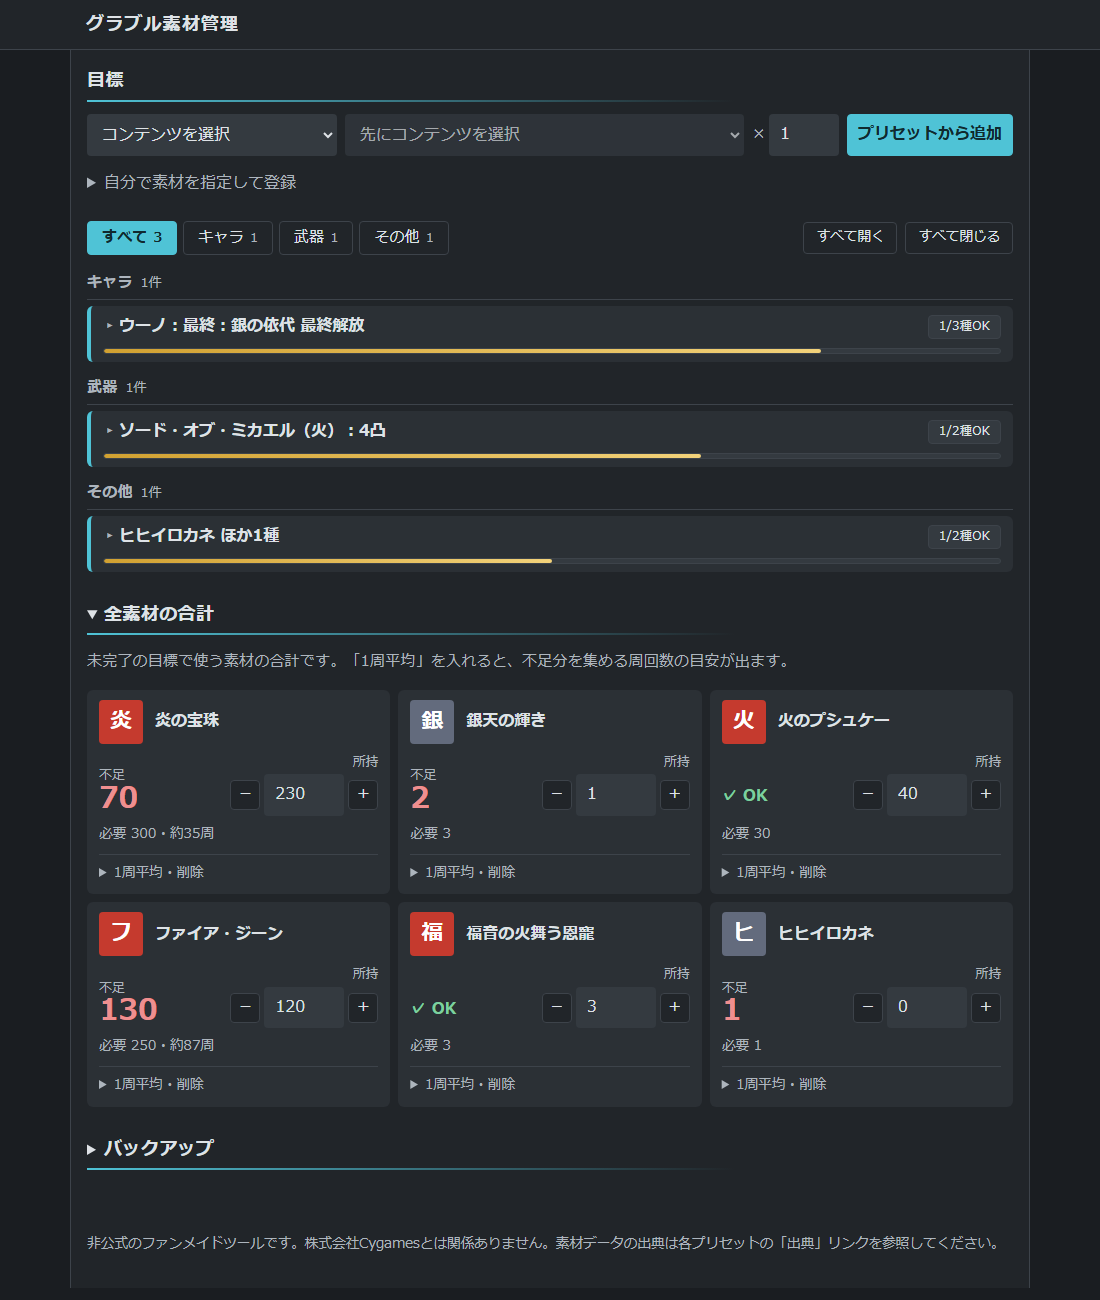
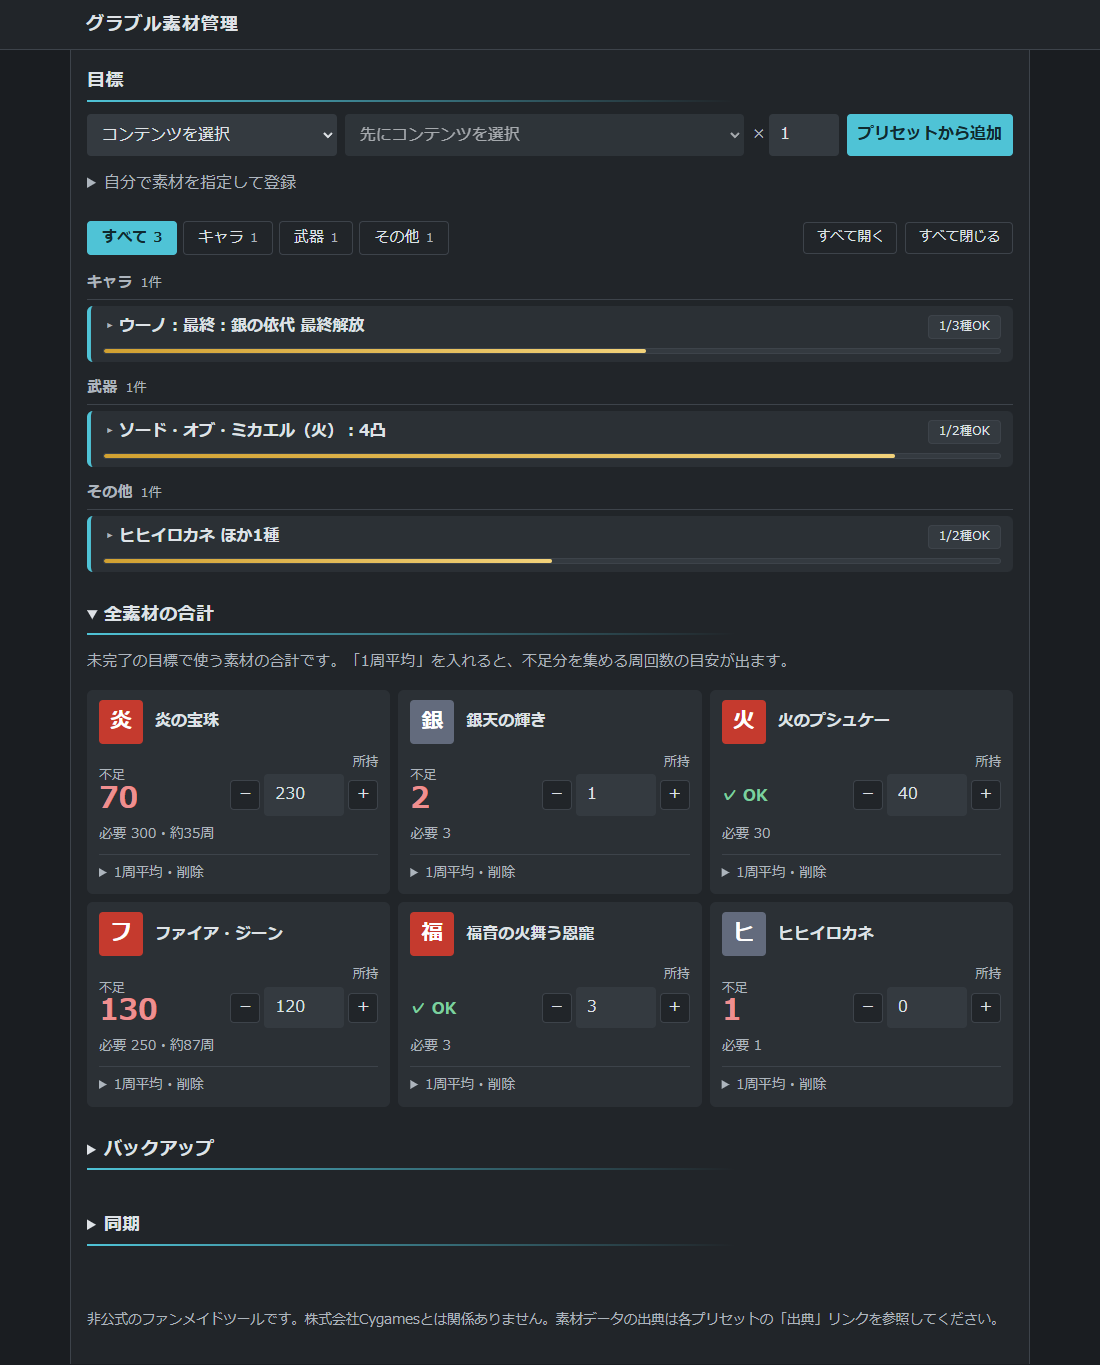
同期サーバーのデータを消すボタンと、180日送られていないデータを毎日消す処理を足し、README の画像を撮り直す

diff --git a/src/sync.ts b/src/sync.ts
@@ -21,6 +21,7 @@ const newBtn = byId('sync-new', HTMLButtonElement);
 const copyBtn = byId('sync-copy', HTMLButtonElement);
 const pushBtn = byId('sync-push', HTMLButtonElement);
 const pullBtn = byId('sync-pull', HTMLButtonElement);
+const deleteBtn = byId('sync-delete', HTMLButtonElement);
 const status = byId('sync-status', HTMLParagraphElement);
 
 // 推測されない同期コードを作る。でたらめな 32 バイトを、URL に使える文字（英数字と - _）の 43 文字にする
@@ -55,12 +56,12 @@ function currentCode(): string | null {
 
 // 通信している間はボタンを押せなくする（二重に送らないため）
 function setBusy(busy: boolean): void {
-  for (const btn of [newBtn, copyBtn, pushBtn, pullBtn]) btn.disabled = busy;
+  for (const btn of [newBtn, copyBtn, pushBtn, pullBtn, deleteBtn]) btn.disabled = busy;
 }
 
 // サーバーにリクエストを送り、返事の番号（ステータスコード）と中身の JSON を返す
 // サーバーにつながらないときは fetch がエラーを投げる
-async function request(method: 'GET' | 'PUT', code: string, body?: unknown): Promise<{ status: number; json: unknown }> {
+async function request(method: 'GET' | 'PUT' | 'DELETE', code: string, body?: unknown): Promise<{ status: number; json: unknown }> {
   const res = await fetch(`${SERVER}/api/sync/${code}`, {
     method,
     headers: body === undefined ? {} : { 'Content-Type': 'application/json' },
@@ -140,7 +141,7 @@ async function pull(): Promise<void> {
   try {
     const res = await request('GET', code);
     if (res.status === 404) {
-      status.textContent = 'この同期コードのデータは、まだサーバーにありません。先にほかの端末から送ってください';
+      status.textContent = 'この同期コードのデータは、サーバーにありません。先にほかの端末から送ってください（180日間送られなかったデータは消えます）';
       return;
     }
     // 返事の中身は { data, updatedAt } の形のはず。違っていたら読み込まない
@@ -158,6 +159,29 @@ async function pull(): Promise<void> {
     app.state = withLocalIcons(AppStorage.normalize(saved.data), app.state);
     app.save();
     location.reload();
+  } catch {
+    status.textContent = NETWORK_ERROR;
+  } finally {
+    setBusy(false);
+  }
+}
+
+// サーバーにあるこの同期コードのデータを消す。この端末のデータと同期コードは残す（もう一度送れば、また同期できる）
+async function remove(): Promise<void> {
+  const code = currentCode();
+  if (!code) return;
+  if (!confirm('サーバーにあるこの同期コードのデータを消しますか？\nこの端末のデータは消えません。ほかの端末からは取ってこられなくなります。')) return;
+  setBusy(true);
+  status.textContent = '消しています…';
+  try {
+    const res = await request('DELETE', code);
+    if (res.status === 200) {
+      status.textContent = 'サーバーのデータを消しました。この端末のデータは残っています';
+    } else if (res.status === 404) {
+      status.textContent = 'この同期コードのデータは、サーバーにありません（消してあるか、180日間送られなかったため消えています）';
+    } else {
+      status.textContent = `消せませんでした（エラー ${res.status}）`;
+    }
   } catch {
     status.textContent = NETWORK_ERROR;
   } finally {
@@ -197,3 +221,4 @@ codeInput.addEventListener('change', () => {
 
 pushBtn.addEventListener('click', push);
 pullBtn.addEventListener('click', pull);
+deleteBtn.addEventListener('click', remove);

diff --git a/server/server.ts b/server/server.ts
@@ -14,6 +14,10 @@ const MAX_BODY = 128 * 1024;
 // 最大で 1,000 × 128KB ＝ 約 128MB（D1 の無料枠は 1 つのデータベースにつき 500MB）
 const MAX_CODES = 1000;
 
+// この日数のあいだ送られてこなかった同期コードは、毎日の掃除（下の scheduled）で消す
+// 使わなくなったデータをサーバーに残さないため。消えると、MAX_CODES の枠も空く
+const KEEP_DAYS = 180;
+
 // このサーバーを呼んでよいページの場所（オリジン = プロトコル + ホスト名 + ポート番号）
 // ブラウザは、別のオリジンのサーバーへの通信を、サーバーが許可したときだけ通す（CORS）
 // 公開ページ（GitHub Pages）と、画面の開発用サーバー（npm run dev）。オリジンにはパス（/gbf-tracker/）は含まない
@@ -42,12 +46,12 @@ app.use(async (c, next) => {
 });
 
 // /api/ で始まるリクエストに、CORS の許可の返事を付ける
-// PUT や JSON を送るときは、ブラウザが先に OPTIONS で「送ってよいか」を聞いてくる（プリフライト）。それにもここで答える
+// PUT・DELETE や JSON を送るときは、ブラウザが先に OPTIONS で「送ってよいか」を聞いてくる（プリフライト）。それにもここで答える
 app.use(
   '/api/*',
   cors({
     origin: ALLOWED_ORIGINS,
-    allowMethods: ['GET', 'PUT'],
+    allowMethods: ['GET', 'PUT', 'DELETE'],
     allowHeaders: ['Content-Type'],
   }),
 );
@@ -117,6 +121,14 @@ app.put(
   },
 );
 
+// 保存してあるデータを消す（使う人が、自分のデータをサーバーに残したくないとき）
+app.delete('/api/sync/:code', async (c) => {
+  const result = await c.env.DB.prepare('DELETE FROM sync WHERE code = ?').bind(c.req.param('code')).run();
+  // meta.changes は、消した行の数。0 なら、その同期コードのデータはもともとなかった
+  if (result.meta.changes === 0) return c.json({ error: 'not found' }, 404);
+  return c.json({ deleted: true });
+});
+
 // メニューにないリクエストには 404 を返す
 app.notFound((c) => c.json({ error: 'not found' }, 404));
 
@@ -126,5 +138,16 @@ app.onError((err, c) => {
   return c.json({ error: 'server error' }, 500);
 });
 
-// Workers は、ここで渡した app にリクエストを届けてくれる。待つ番号（ポート）は Cloudflare が決める
-export default app;
+// Workers は、ここで渡したものを呼んでくれる。待つ番号（ポート）は Cloudflare が決める
+// fetch: リクエストが届いたとき（中身は Hono の app）
+// scheduled: wrangler.jsonc の triggers.crons に書いた時間になったとき（Cron Triggers）
+export default {
+  fetch: app.fetch,
+  async scheduled(controller, env) {
+    // scheduledTime は、動くはずだった時間（1970 年からのミリ秒）。そこから KEEP_DAYS 日前より古いものを消す
+    // updated_at は同じ形の ISO 形式（2026-11-02T03:04:05.000Z）なので、文字列のまま大きさを比べられる
+    const before = new Date(controller.scheduledTime - KEEP_DAYS * 24 * 60 * 60 * 1000).toISOString();
+    const result = await env.DB.prepare('DELETE FROM sync WHERE updated_at < ?').bind(before).run();
+    console.log(`${before} より前に送られた同期コードを ${result.meta.changes} 件消しました`);
+  },
+} satisfies ExportedHandler<Env>;

diff --git a/index.html b/index.html
@@ -51,7 +51,7 @@
     <!-- バックアップ -->
     <details class="card" id="backup">
       <summary><h2>バックアップ</h2></summary>
-      <p>データはこのブラウザ内（localStorage）にだけ保存されています。ブラウザのデータを消すと消えるので、定期的に書き出しておいてください。</p>
+      <p>データはこのブラウザ内（localStorage）に保存されています。サーバーに送るのは、「同期」の「サーバーに送る」を押したときだけです。ブラウザのデータを消すと消えるので、定期的に書き出しておいてください。</p>
       <div class="row-buttons">
         <button id="export-btn">JSONを書き出す</button>
         <button type="button" id="import-btn">JSONを読み込む</button>
@@ -63,7 +63,7 @@
     <!-- 同期 -->
     <details class="card" id="sync">
       <summary><h2>同期</h2></summary>
-      <p class="hint">同じ同期コードを入れた端末どうしで、データをサーバーに送ったり、サーバーから取ってきたりできます。はじめに1台で「新しく作る」を押し、出てきた同期コードをほかの端末に貼り付けます。素材のアイコンは送らないので、端末ごとに登録してください。同期コードを知っている人はデータを読み書きできるので、人に教えないでください。</p>
+      <p class="hint">同じ同期コードを入れた端末どうしで、データをサーバーに送ったり、サーバーから取ってきたりできます。はじめに1台で「新しく作る」を押し、出てきた同期コードをほかの端末に貼り付けます。素材のアイコンは送らないので、端末ごとに登録してください。同期コードを知っている人はデータを読み書きできるので、人に教えないでください。サーバーのデータは、「サーバーから消す」で消せます。180日間送られなかったデータは、自動で消えます。</p>
       <div class="inline-form">
         <label class="sync-code-label">同期コード
           <input id="sync-code" type="text" autocomplete="off" spellcheck="false" minlength="32" maxlength="64" pattern="[A-Za-z0-9_\-]{32,64}">
@@ -74,6 +74,7 @@
       <div class="row-buttons">
         <button type="button" id="sync-push">サーバーに送る</button>
         <button type="button" id="sync-pull">サーバーから取ってくる</button>
+        <button type="button" id="sync-delete" class="danger">サーバーから消す</button>
       </div>
       <p class="hint" id="sync-status" role="status"></p>
     </details>

diff --git a/README.md b/README.md
@@ -23,6 +23,7 @@ https://syugo1142.github.io/gbf-tracker/ を開きます。
 - データは、ボタンを押したときだけ同期サーバー（Cloudflare Workers）に送ります。自動では送りません
 - 素材のアイコンは送りません。端末ごとに登録してください
 - 同期コードを知っている人は、データを読み書きできます。人に教えないでください
+- サーバーのデータは「サーバーから消す」で消せます（端末のデータは残ります）。180日間送られなかったデータは、自動で消えます
 
 ## 収録プリセット
 全636件です。
